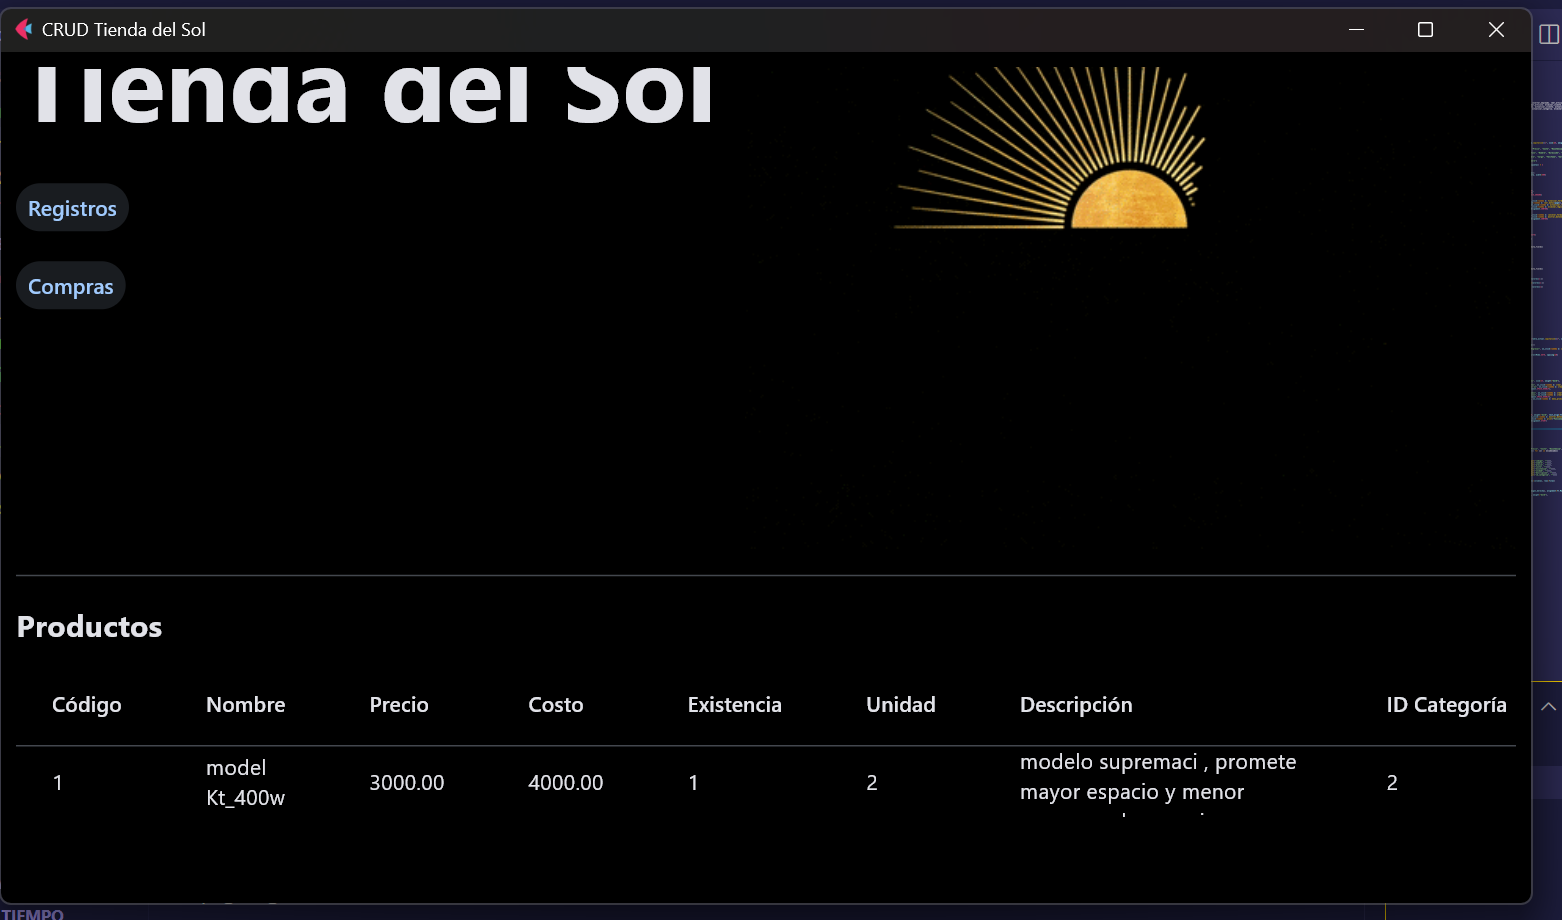
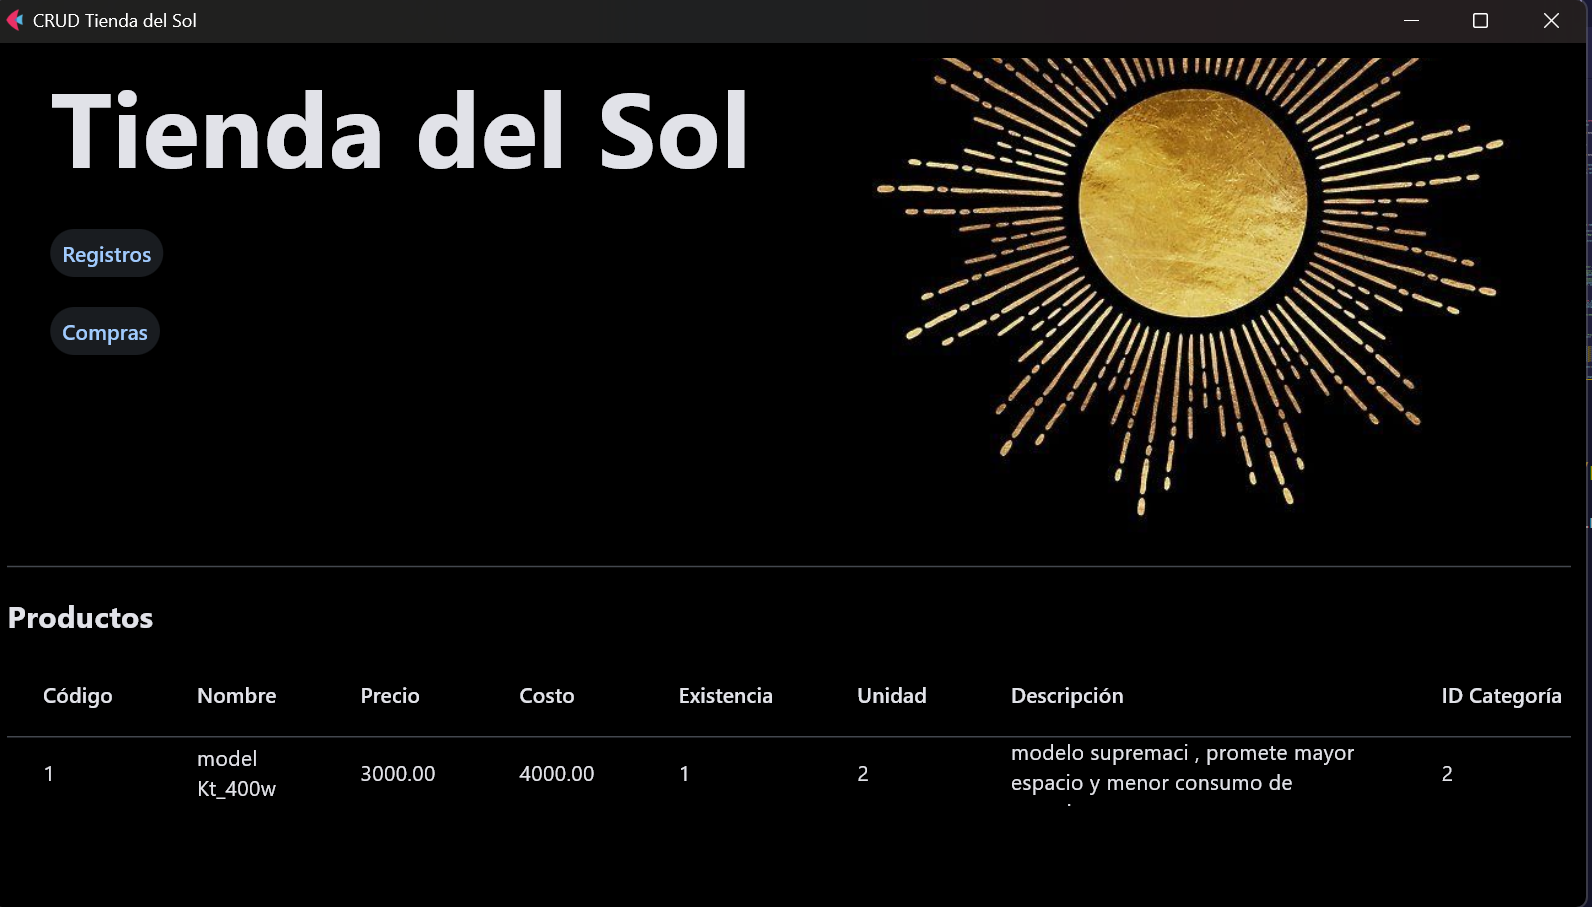
actualizando08/05/25

diff --git a/interfz.py b/interfz.py
@@ -5,7 +5,8 @@ from crud_connector import (
     insertar_articulo, insertar_cliente, insertar_empleado, leer_articulos, 
     leer_clientes, leer_empleados, eliminar_articulo, eliminar_cliente, 
     eliminar_empleado, actualizar_articulo, actualizar_cliente, actualizar_empleado,
-    insertar_categoria, leer_categorias, actualizar_categoria, eliminar_categoria
+    insertar_categoria, leer_categorias, actualizar_categoria, eliminar_categoria,
+    insertar_venta, insertar_detalle_venta, actualizar_existencia_articulo 
 )
 data_fields = []
 tabla_actual = None
@@ -160,14 +161,14 @@ def menu_principal(page):
     columna_izquierda = ft.Column([
         ft.Text("Tienda del Sol", size=70, weight="bold", text_align=ft.TextAlign.CENTER),
         ft.ElevatedButton("Registros", on_click=lambda e: mostrar_botones_registro(page)),
-        ft.ElevatedButton("Compras", on_click=lambda e: print("Funcionalidad de compras aún no implementada"))
+        ft.ElevatedButton("Compras", on_click=lambda e: pantalla_compras(page))
     ], spacing=20, alignment=ft.MainAxisAlignment.START)
 
     imagen_derecha = ft.Image(
         #-----> cambiar la ruta
-        src="C:/Users/jonathan\Documents\S5A/admin basedat/tiendadelsol/imagenes/sol.gif",  
-        width=540,
-        height=523,
+        src="C/su/ruta/propia//tiendadelsol/imagenes/sol.jpeg",  
+        width=450,
+        height=450,
         fit=ft.ImageFit.CONTAIN
     )
     try:
@@ -206,7 +207,100 @@ def menu_principal(page):
 )
 
     page.update()
-    
+
+def pantalla_compras(page):
+    limpiar_contenido(page)
+
+    clientes = leer_clientes()
+    opciones_clientes = [
+        ft.dropdown.Option(f"{cliente['id_cliente']} - {cliente['nombre']}")
+        for cliente in clientes
+    ]
+    dropdown_clientes = ft.Dropdown(
+        label="Seleccionar cliente",
+        options=opciones_clientes,
+        width=400
+    )
+    campo_busqueda = ft.TextField(label="Buscar artículo por código o nombre", width=400)
+    tabla_resultados = ft.Column()
+
+    def buscar_articulo(e):
+        termino = campo_busqueda.value.lower()
+        articulos = leer_articulos()
+        resultados = []
+
+        for art in articulos:
+            if termino in str(art.get("codigo", "")).lower() or termino in str(art.get("nombre", "")).lower():
+                resultados.append(art)
+
+        tabla_resultados.controls.clear()
+
+        if resultados:
+            for art in resultados:
+                cantidad_field = ft.TextField(label="Cantidad", width=100)
+
+                def realizar_venta(evt, art=art, cantidad_field=cantidad_field):
+                    seleccion = dropdown_clientes.value
+                    if not seleccion:
+                        page.dialog = ft.AlertDialog(title=ft.Text("Seleccione un cliente"))
+                        page.dialog.open = True
+                        page.update()
+                        return
+
+                    id_cliente = int(seleccion.split(" - ")[0])
+                    try:
+                        cantidad = int(cantidad_field.value)
+                        existencia = int(art["existencia"])
+                        if cantidad <= 0 or cantidad > existencia:
+                            raise ValueError
+                    except:
+                        page.dialog = ft.AlertDialog(title=ft.Text("Cantidad inválida o excede existencia"))
+                        page.dialog.open = True
+                        page.update()
+                        return
+
+                    id_venta = insertar_venta(id_cliente)
+                    insertar_detalle_venta(id_venta, art["codigo"], cantidad, art["precio"])
+                    nueva_existencia = existencia - cantidad
+                    actualizar_existencia_articulo(art["codigo"], nueva_existencia)
+
+                    page.dialog = ft.AlertDialog(title=ft.Text("Venta registrada exitosamente"))
+                    page.dialog.open = True
+                    page.update()
+
+                fila = ft.Row([
+                    ft.Text(f"{art['codigo']} - {art['nombre']} | ${art['precio']} | Stock: {art['existencia']}"),
+                    cantidad_field,
+                    ft.ElevatedButton("Vender", on_click=lambda evt, a=art, c=cantidad_field: realizar_venta(evt, a, c))
+                ])
+                tabla_resultados.controls.append(fila)
+        else:
+            tabla_resultados.controls.append(ft.Text("No se encontraron artículos."))
+
+        page.update()
+  
+    boton_buscar = ft.ElevatedButton("Buscar artículo", on_click=buscar_articulo)
+
+    boton_regresar = ft.ElevatedButton("Regresar", on_click=lambda e: menu_principal(page))
+
+    # Vista principal
+    page.controls.append(
+        ft.Column([
+            ft.Text("Módulo de Compras", size=24, weight="bold"),
+            dropdown_clientes,
+            campo_busqueda,
+            boton_buscar,
+            ft.Divider(),
+            ft.Text("Resultados de artículos:", size=18, weight="bold"),
+            tabla_resultados,
+            ft.Divider(),
+            boton_regresar
+        ], spacing=20, scroll=ft.ScrollMode.AUTO)
+    )
+
+    page.update()
+
+
 def main(page: ft.Page):
     page.title = "CRUD Tienda del Sol"
     page.window_width = 1000

diff --git a/crud_connector.py b/crud_connector.py
@@ -4,7 +4,7 @@ def conectar():
     return mysql.connector.connect(
         host="localhost",
         user="root",
-        password="mysql",
+        password="mysql", # cambiar en caso que no sea su contraseña
         database="tiendadelsol"
     )
 # CRUD articulos
@@ -143,3 +143,56 @@ def eliminar_categoria(id_categoria):
     cursor.execute("DELETE FROM categorias WHERE id_categoria = %s", (id_categoria,))
     con.commit()
     con.close()
+
+#crud venta 
+def insertar_venta(id_cliente):
+    con = conectar()
+    cursor = con.cursor()
+    cursor.execute("INSERT INTO ventas (id_cliente) VALUES (%s)", (id_cliente,))
+    con.commit()
+    id_venta = cursor.lastrowid
+    con.close()
+    return id_venta
+
+def insertar_detalle_venta(id_venta, codigo_articulo, cantidad, precio_venta):
+    con = conectar()
+    cursor = con.cursor()
+    cursor.execute("""
+        INSERT INTO detalle_ventas (id_venta, codigo_articulo, cantidad, precio_venta)
+        VALUES (%s, %s, %s, %s)
+    """, (id_venta, codigo_articulo, cantidad, precio_venta))
+    con.commit()
+    con.close()
+
+def actualizar_existencia_articulo(codigo_articulo, nueva_existencia):
+    con = conectar()
+    cursor = con.cursor(dictionary=True)
+
+    # Leer todos los campos actuales del artículo
+    cursor.execute("SELECT * FROM articulos WHERE codigo = %s", (codigo_articulo,))
+    art = cursor.fetchone()
+
+    if not art:
+        con.close()
+        raise Exception("Artículo no encontrado.")
+
+    # Actualizar manteniendo todos los campos, solo cambiando existencia
+    query = """
+        UPDATE articulos
+        SET nombre = %s, precio = %s, costo = %s, existencia = %s,
+            unidad = %s, descripcion = %s, id_categoria = %s
+        WHERE codigo = %s
+    """
+    cursor.execute(query, (
+        art["nombre"],
+        art["precio"],
+        art["costo"],
+        nueva_existencia,
+        art["unidad"],
+        art["descripcion"],
+        art["id_categoria"],
+        codigo_articulo
+    ))
+    con.commit()
+    con.close()
+

diff --git a/README.md b/README.md
@@ -2,7 +2,7 @@
 
 1.-Primero que nada se debe cambiar la ruta
 donde se encuentra las imagenes del proyecto en el archivo 
-"interfz.py" en la linea 168
+"interfz.py" en la linea 169
 
 2.-instalacion de flet 
     con comandos como:
